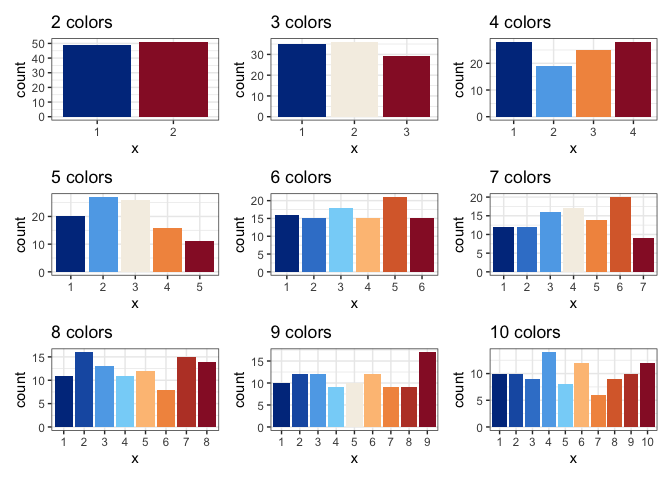
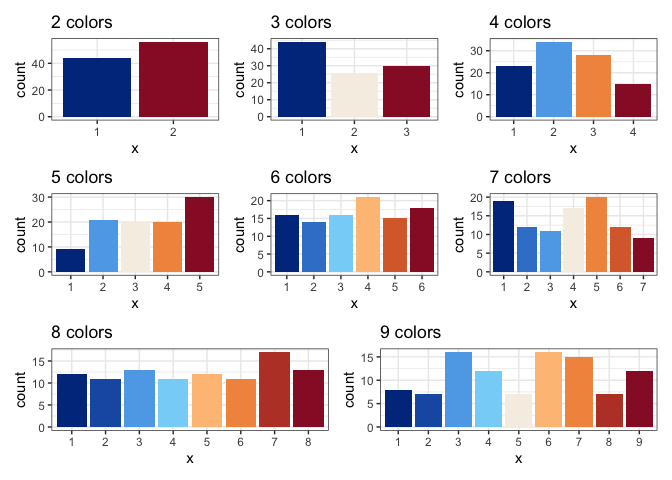
ies_blues added to color scheme

diff --git a/README.md b/README.md
@@ -54,7 +54,7 @@ scale_fill_nces
 #>     ggplot2::discrete_scale(aesthetics, "nces", nces_palette(type, 
 #>         palette, direction), ...)
 #> }
-#> <bytecode: 0x7fd1a9700588>
+#> <bytecode: 0x7fb90ecc2a80>
 #> <environment: namespace:handbook>
 scale_colour_nces
 #> function (..., type = "seq", palette = 1, direction = 1, aesthetics = "colour") 
@@ -62,13 +62,11 @@ scale_colour_nces
 #>     ggplot2::discrete_scale(aesthetics, "nces", nces_palette(type, 
 #>         palette, direction), ...)
 #> }
-#> <bytecode: 0x7fd1a9769b30>
+#> <bytecode: 0x7fb90ed52380>
 #> <environment: namespace:handbook>
 ```
 
 #### Sequential Color Scheme
-
-    #> Warning in choose_n(colors, n, type): chosen color palette only has 9 colors.
 
 <img src="man/figures/README-unnamed-chunk-3-1.png" width="100%" />
 
@@ -149,11 +147,11 @@ map_values %>% unnest(col=hexagon) %>%
   geom_polygon(colour = "grey50", size=0.1) + 
   theme_void () +
   coord_map () +
-  scale_fill_nces("Quintiles of\nAverage Household Size", type="div", palette=2) +
+  scale_fill_nces("Quintiles of\nAverage Household Size", type="seq", palette="ies_blues", guide = guide_legend(reverse = TRUE) ) +
 #  scale_fill_gradient2("Avg. Household size", midpoint=median(hh10$value)) +
-  geom_text(aes(label = state_abbv, colour = I(abs(value-2.495) <= 0.015)), 
+  geom_text(aes(label = state_abbv, colour = I((value-2.495) <= 0.015)), 
             map_values %>% filter(piece == 1) %>% unnest(col=hexagon_labels)) +
-  scale_colour_manual(values=c("white", "grey50")) +
+  scale_colour_manual(values=c("white", "grey20")) +
   guides(colour = "none") 
 ```
 
